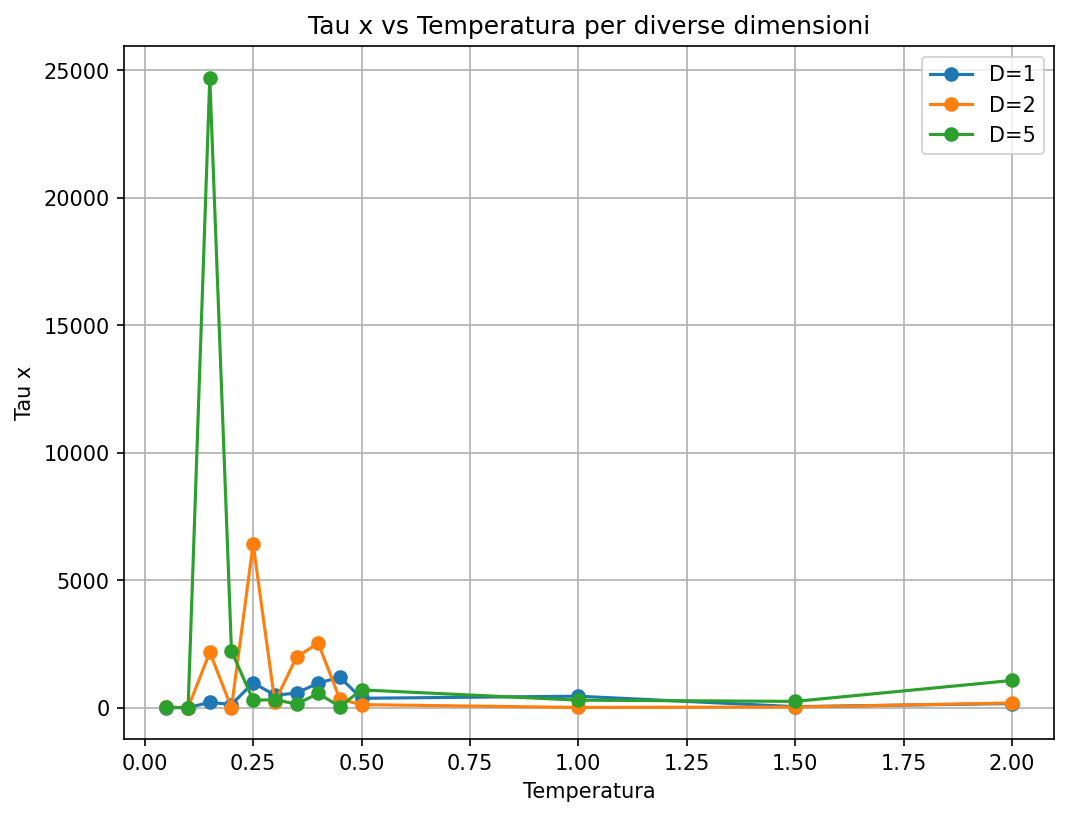
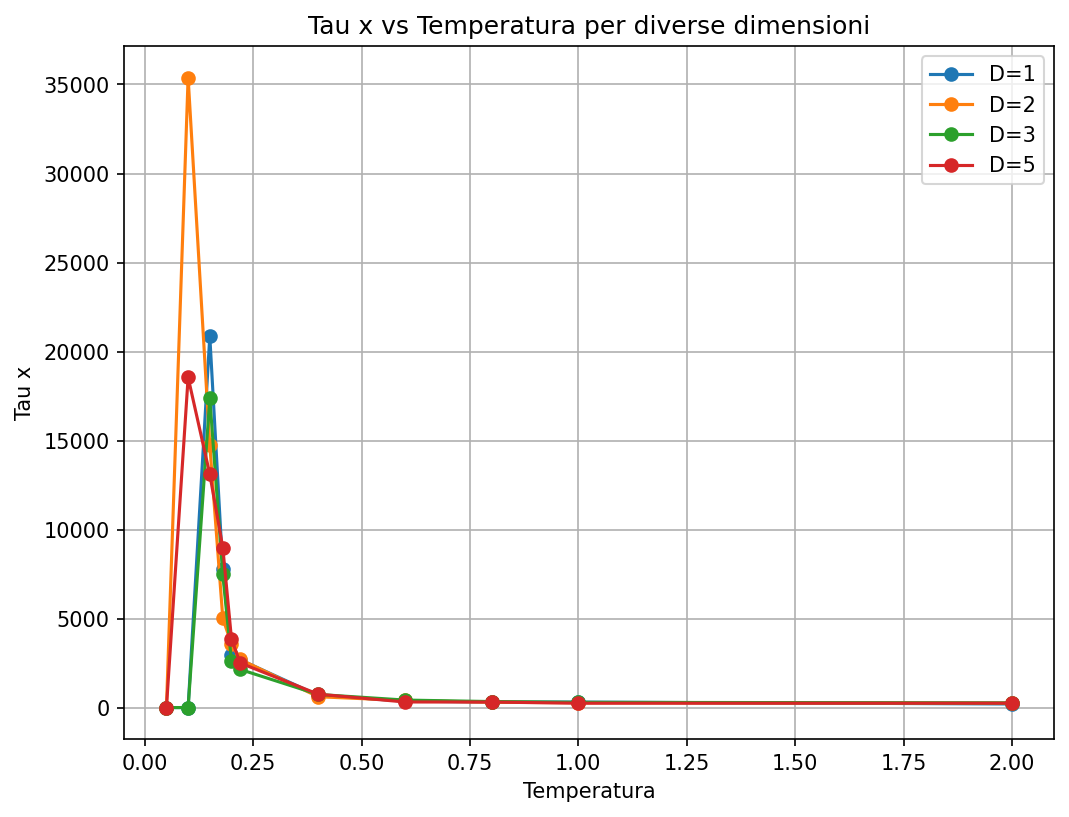
new tau estimation

diff --git a/source/observable.py b/source/observable.py
@@ -6,22 +6,27 @@ import numpy as np
 def V(x, a=1.0, b=1.0):
     return a * (x[0]**2 - b)**2 + 0.5 * jnp.sum(x[1:]**2)
 
-def find_plateau(R_values, threshold=0.01):
+def find_plateau(R_values, threshold=0.05, obs="_"):
 
-    for k in range(1, len(R_values)):
-        rel = jnp.abs(R_values[k] - R_values[k-1]) / jnp.abs(R_values[k-1]) # relative change
-        if rel < threshold:
-            R_plateau = R_values[k]
+    R = list(R_values)
+
+    for k in range(2, len(R)):
+        rel1 = abs(R[k]   - R[k-1]) / abs(R[k-1])
+        rel2 = abs(R[k-1] - R[k-2]) / abs(R[k-2])
+
+        if rel1 < threshold and rel2 < threshold:
+            R_plateau = R[k]
             tau = 0.5 * (R_plateau - 1.0)
             return R_plateau, tau
 
-    # fallback → usa l'ultimo livello di blocking
-    R_plateau = R_values[-1]
+    # fallback
+    print(f"Warning: no plateau found for {obs}, using last R")
+    R_plateau = R[-1]
     tau = 0.5 * (R_plateau - 1.0)
-    print("Warning: no plateau found, using last R value")
     return R_plateau, tau
 
-def blocking_analysis(data):
+
+def blocking_analysis(data, threshold=0.01, obs="_"):
     x = jnp.array(data, dtype=jnp.float32)
 
     # varianza completa 
@@ -31,12 +36,12 @@ def blocking_analysis(data):
     cur = x.copy()
     m = 1
 
-    # fino a quando ci sono almeno 2 blocchi
+    # blocling diminuendo di 1 la dimensione ad ogni iterazione, fino a quando non rimangono almeno 2 blocchi
     while cur.shape[0] >= 2:
 
         if cur.shape[0] % 2 == 1:
             cur = cur[:-1]
-        # Media per blocco (cur è già il dataset "bloccato")
+
         var_block_mean = jnp.var(cur, ddof=1)
 
         # R(m) = m * Var(block) / Var(full)
@@ -46,29 +51,53 @@ def blocking_analysis(data):
         # blocking → media di coppie
         cur = 0.5 * (cur[0::2] + cur[1::2])
         m *= 2
-    R_plateau, tau = find_plateau(R_list, threshold=0.01)
+    R_plateau, tau = find_plateau(R_list, threshold, obs)
     M = data.shape[0]
     sigma_mean = jnp.sqrt(R_plateau * varX / M)
     return sigma_mean, tau
 
-def append_observables(results, trajectories, D, T, trajectory, acceptance_rate, a=1.0, b=1.0):
+def autocorr(x):
+    x = np.asarray(x)
+    N = len(x)
+    x = x - np.mean(x)
+    fft = np.fft.fft(x, n=2*N)
+    acf = np.fft.ifft(fft * np.conjugate(fft))[:N].real
+    acf /= acf[0]
+    return acf
+
+def integrated_autocorrelation_time(x, c=6.0):
+    """
+    Metodo di Madras–Sokal (Gamma-method).
+    c = fattore della finestra (tipicamente 4–8)
+    """
+    ac = autocorr(x)
+    tau = 0.5
+    for t in range(1, len(ac)):
+        if ac[t] < 0:   # autocorrelazione rumorosa → fermiamo
+            break
+        tau += ac[t]
+        # Finestra automatica (criterio di Sokal)
+        if t > c * tau:
+            break
+    return tau
+
+def append_observables(results, trajectories, D, T, trajectory, acceptance_rate, a=1.0, b=1.0, threshold=0.01):
     energies = np.array(jax.vmap(lambda x: V(x, a, b))(trajectory))
     energies2 = energies**2
 
     # blocking for E
     E_mean =np.mean(energies)
-    E_mean_err, _ = blocking_analysis(energies)
-    
+    E_mean_err, _ = blocking_analysis(energies, threshold, obs="E_mean")
 
     # blocking for Cv
-    E2_mean_err, _ = blocking_analysis(energies2)
+    E2_mean_err, _ = blocking_analysis(energies2, threshold, obs="Cv")
     Cv = (np.mean(energies2) - E_mean**2) / T**2
     # error propagation for Cv
     Cv_err = (E2_mean_err + 2 * E_mean * E_mean_err) / T**2
 
     #tau_x
-    x_values = np.array(trajectory[:, 0])
-    _, tau_x = blocking_analysis(x_values)
+    x = np.array(trajectory[:, 0])
+    tau_x = integrated_autocorrelation_time(x)
 
     results[D]["T"].append(T)
     results[D]["E_mean"].append(E_mean)

diff --git a/source/main.py b/source/main.py
@@ -6,14 +6,16 @@ import jax.numpy as jnp
 
 
 def main():
-    dimensions = [1, 2, 5]
-    temperatures = [0.05, 0.1, 0.15, 0.2, 0.25, 0.3, 0.35, 0.4, 0.45, 0.5,1.0, 1.5, 2.0]
-    n_thermalization = 10000
-    n_steps = 200000
+    dimensions = [1, 2, 3, 5]
+    temperatures = [0.05, 0.1,0.15,0.18, 0.2, 0.22, 0.4, 0.6, 0.8, 1, 2]
+    n_thermalization = 20000
+    n_steps = 300000
     step_size = 0.1
     # potential parameters
     a = 1.0
     b = 1.0
+    #blocking threshold
+    threshold = 0.2
 
     #thermalization example for 3 configurations
     D = 2
@@ -58,9 +60,10 @@ def main():
             trajectory, acceptance_rate, key , x = metro.run_simulation(
                 key, T, n_steps, step_size, initial_x=x, a=a, b=b)
             # x is the last configuration of the trajectory, used as initial configuration for the next temperature
+
             # append observables to results
-            obs.append_observables(results,trajectories, D, T, trajectory, acceptance_rate, a, b)
-            print(f"D={D}, T={T:.3f}.")
+            obs.append_observables(results,trajectories, D, T, trajectory, acceptance_rate, a, b, threshold)
+            print(f"D={D}, T={T:.3f}")
 
     # plot results
     plot.plot_obs_D_T(results, dimensions, "E_mean", error=True)
